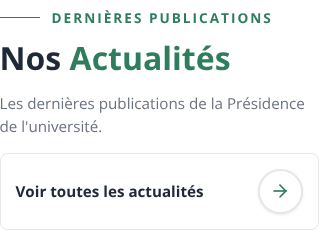
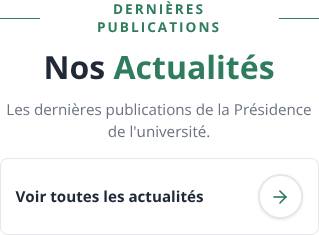
fix: preserve section layouts around header CTA

diff --git a/frontend/src/styles/vitrine.css b/frontend/src/styles/vitrine.css
@@ -5431,42 +5431,9 @@ select.vt-fld-input {
 }
 
 
-/* En-têtes des sections de l’accueil avec CTA circulaire. */
-.vitrine .vt-section-header {
-  display: flex;
-  align-items: flex-end;
-  justify-content: space-between;
-  flex-wrap: wrap;
-  gap: 20px;
-  margin-bottom: 40px;
-}
-
-.vitrine .vt-section-header-left {
-  width: auto;
-  max-width: none;
-  flex: 1 1 auto;
-  margin: 0;
-  text-align: left;
-}
-
-.vitrine .vt-section-header-left .vt-section-eyebrow {
-  justify-content: flex-start;
-  margin-bottom: 12px;
-}
-
-.vitrine .vt-section-eyebrow::after {
-  display: none;
-}
-
-.vitrine .vt-section-header-description {
-  width: 100%;
-  max-width: 42rem;
-  flex: 0 0 100%;
-  margin: -8px 0 0;
-  color: var(--text-muted);
-  font-size: .95rem;
-  line-height: 1.5;
-  text-align: left;
+/* Bouton en cercle positionné dans l’en-tête sans déplacer son contenu. */
+.vitrine .vt-accueil-header-with-cta {
+  position: relative;
 }
 
 .vitrine .vt-btn-circle-arrow {
@@ -5483,6 +5450,12 @@ select.vt-fld-input {
   font-weight: 700;
   text-decoration: none;
   transition: color .3s ease, gap .3s ease;
+}
+
+.vitrine .vt-accueil-header-with-cta > .vt-btn-circle-arrow {
+  position: absolute;
+  top: 30px;
+  right: 0;
 }
 
 .vitrine .vt-arrow-circle {
@@ -5519,36 +5492,23 @@ select.vt-fld-input {
   outline-offset: 4px;
 }
 
+@media (max-width: 991px) {
+  .vitrine .vt-accueil-header-with-cta > .vt-btn-circle-arrow {
+    position: static;
+    align-self: flex-end;
+  }
+}
+
 @media (max-width: 767px) {
-  .vitrine .vt-section-header {
-    flex-direction: column;
-    align-items: flex-start;
-    gap: 15px;
-  }
-
-  .vitrine .vt-section-header-left {
+  .vitrine .vt-accueil-header-with-cta > .vt-btn-circle-arrow {
     width: 100%;
-    flex: 0 1 auto;
-  }
-
-  .vitrine .vt-btn-circle-arrow {
-    width: 100%;
+    align-self: stretch;
     justify-content: space-between;
     margin-bottom: 0;
     padding: 15px;
     border: 1px solid #E5E7EB;
     border-radius: 8px;
     background: #fff;
-  }
-
-  .vitrine .vt-section-header-description {
-    order: 2;
-    flex: 0 1 auto;
-    margin-top: 0;
-  }
-
-  .vitrine .vt-btn-circle-arrow {
-    order: 3;
   }
 }
 

diff --git a/frontend/tests/espace-public-sections.test.tsx b/frontend/tests/espace-public-sections.test.tsx
@@ -263,13 +263,13 @@ describe("sections de la page d'accueil publique", () => {
       "Voir tous les partenaires",
     ]
     const entetes = Array.from(
-      conteneur.querySelectorAll(".vt-section-header"),
+      conteneur.querySelectorAll(".vt-accueil-section-head"),
     )
 
     expect(entetes).toHaveLength(4)
-    expect(entetes.map((entete) => entete.querySelector(".vt-section-header-left h2")?.textContent)).toEqual(titres)
-    expect(entetes.every((entete) => entete.querySelector(".vt-section-header-left .vt-section-eyebrow"))).toBe(true)
-    expect(entetes.every((entete) => entete.querySelector(".vt-section-header-description")?.textContent)).toBe(true)
+    expect(entetes.map((entete) => entete.querySelector(".vt-accueil-section-copy h2")?.textContent)).toEqual(titres)
+    expect(entetes.every((entete) => entete.querySelector(".vt-section-eyebrow"))).toBe(true)
+    expect(entetes.every((entete) => entete.querySelector(".vt-accueil-section-copy > p")?.textContent)).toBe(true)
     expect(
       Array.from(conteneur.querySelectorAll(".vt-btn-circle-arrow"))
         .map((bouton) => bouton.textContent?.trim()),
@@ -368,7 +368,7 @@ describe("sections de la page d'accueil publique", () => {
       ["partenariats", ".vt-timeline"],
       ["partenaires", ".vt-partner-grid"],
     ]) {
-      const entete = conteneur.querySelector(`#${section} .vt-section-header`)
+      const entete = conteneur.querySelector(`#${section} .vt-accueil-section-head`)
       const bouton = entete?.querySelector(".vt-btn-circle-arrow")
       const contenu = conteneur.querySelector(`#${section} ${selecteur}`)
       expect(entete).not.toBeNull()

diff --git a/frontend/src/features/espace-public/components/EnTeteSection.tsx b/frontend/src/features/espace-public/components/EnTeteSection.tsx
@@ -26,12 +26,16 @@ export function EnTeteSection({
   direction = "up",
 }: EnTeteSectionProps) {
   return (
-    <Reveal className="vt-section-header" direction={direction}>
-      <div className="vt-section-header-left vt-accueil-section-copy">
+    <Reveal
+      className="vt-head vt-accueil-section-head vt-accueil-header-with-cta"
+      direction={direction}
+    >
+      <div className="vt-accueil-section-copy">
         {surTitre && <span className="vt-section-eyebrow">{surTitre}</span>}
         <h2 id={idTitre}>
           {titre}{titreAccent && <> <span className="vt-title-accent">{titreAccent}</span></>}
         </h2>
+        {sousTitre ? <p>{sousTitre}</p> : null}
       </div>
       <Link to={lienTout} className="vt-btn-circle-arrow">
         {libelleTout}
@@ -39,7 +43,6 @@ export function EnTeteSection({
           <ArrowRight size={20} aria-hidden="true" />
         </span>
       </Link>
-      {sousTitre ? <p className="vt-section-header-description">{sousTitre}</p> : null}
     </Reveal>
   )
 }
